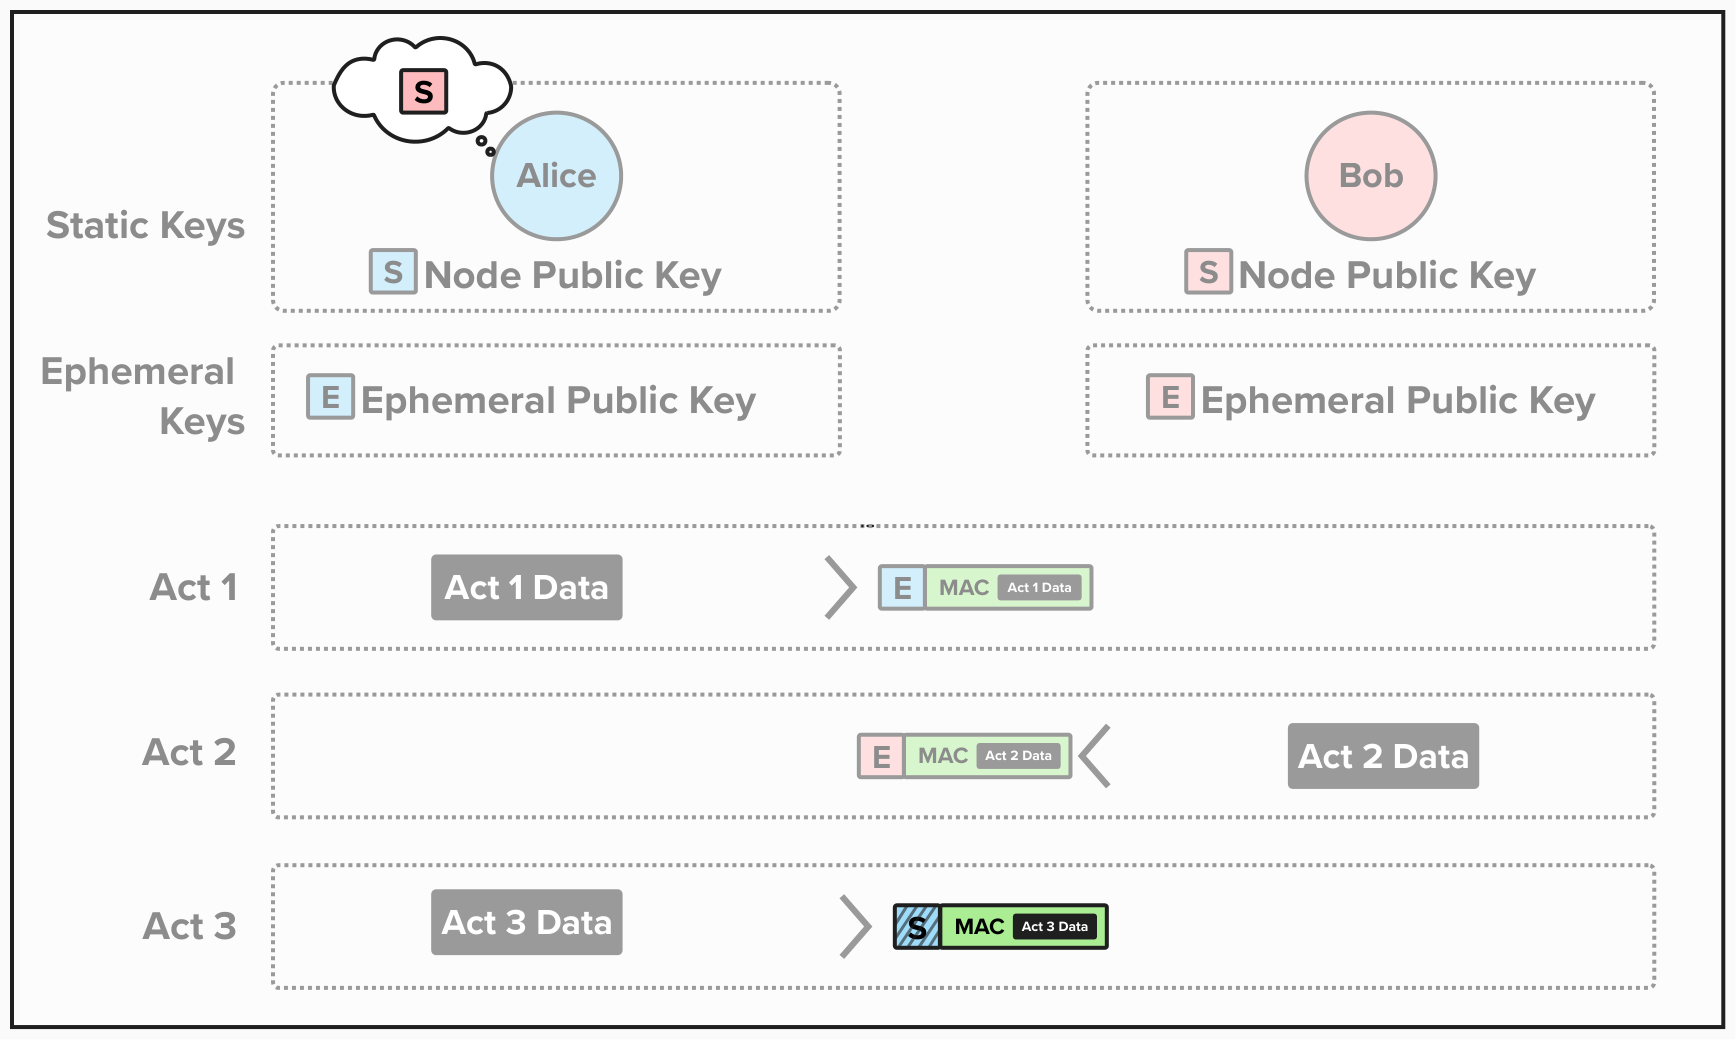
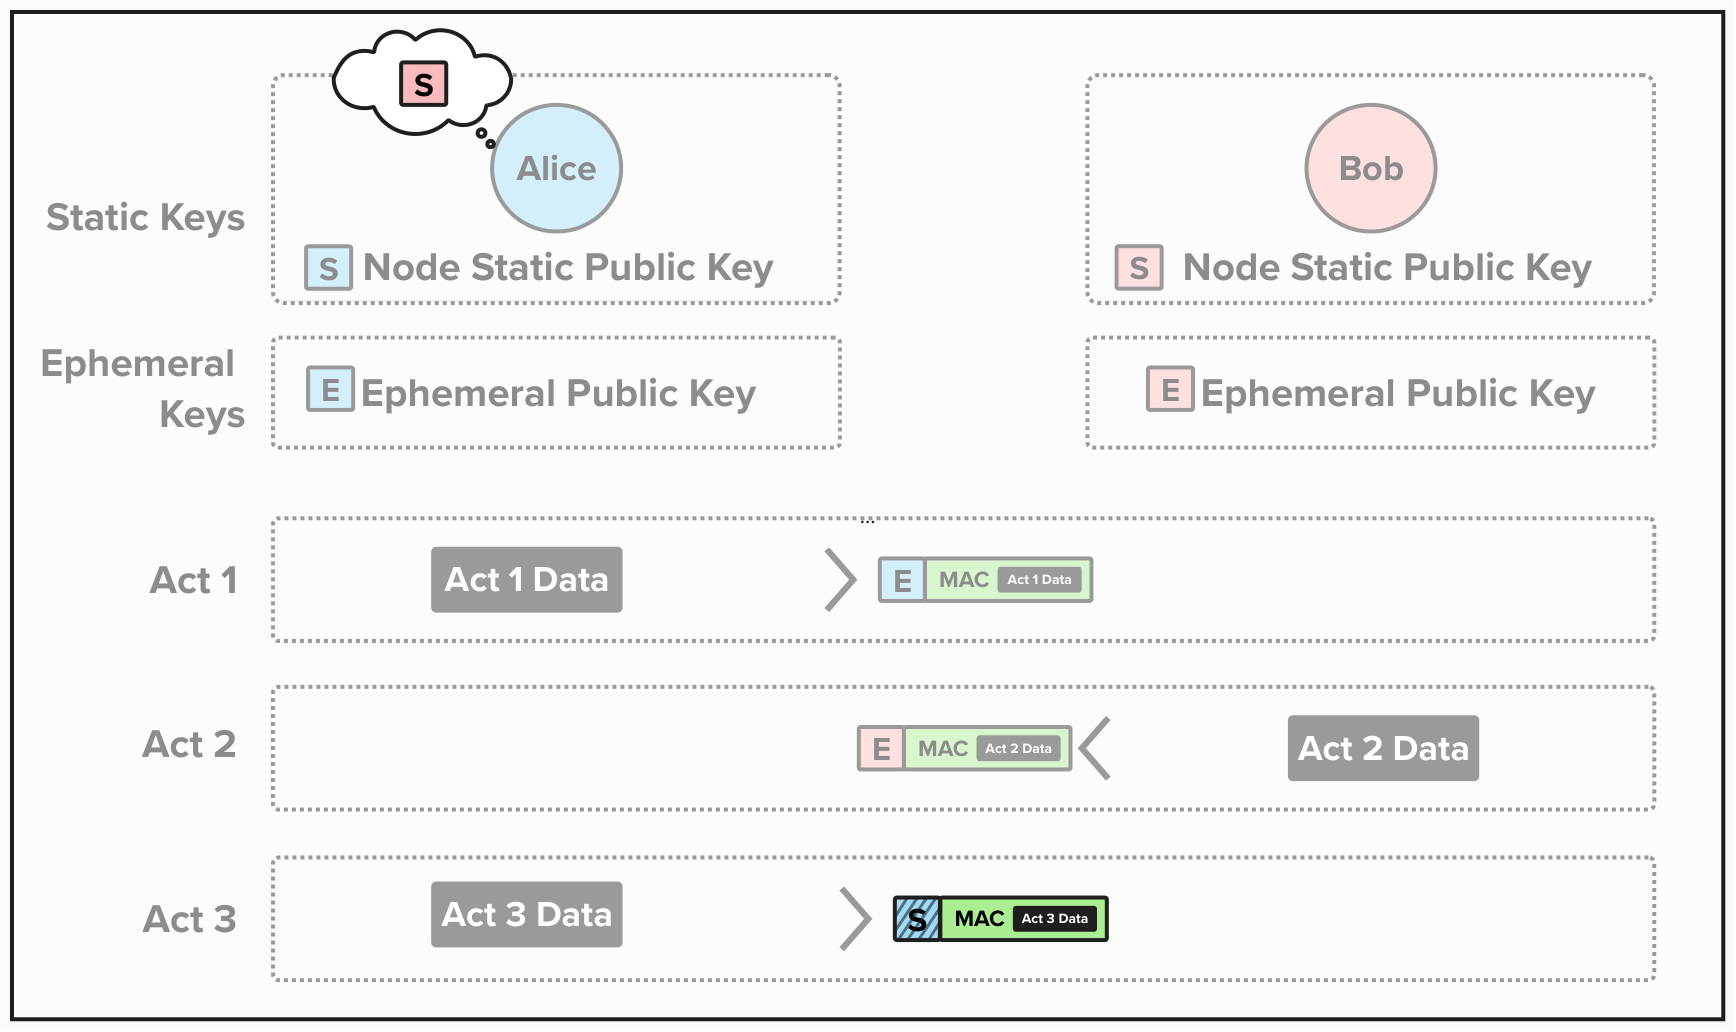
add Alice Noise Act 1

diff --git a/tutorial/1.7-noise-act-1.md b/tutorial/1.7-noise-act-1.md
@@ -1,0 +1,84 @@
+# Noise Protocol: Act 1
+
+Now that Alice has her pre-handshake state, she is ready to connect to Bob! In the "real world", Bob will compute his pre-handshake state when receiving the inbound connection from Alice.
+
+The first act of the Noise handshake protocol is Alice answering an implicit *challenge* from Bob: **prove you know Bob's public key**. We refer to it as a "challenge" because it follows the popular cryptographic **challenge-response pattern**, whereby one party satisfies a challenge, proving they know something, and then the other party responds.
+
+In this case, Act 1 is about Alice proving she knows who Bob is without actually sending his public key across the wire. To do this, she will mix Bob's public key into her handshake hash, which is then used in the Message Authentication Code (MAC), enabling Bob to verify the challenge privately. Let's see how it's done!
+
+## Act 1: Alice's Point-of-View
+
+<p align="left" style="width: 50%; max-width: 300px;">
+  <img src="./tutorial_images/noise_act1_alice.png" alt="noise_act1_alice" width="100%" height="auto">
+</p>
+
+### Step 1: Alice Generates Ephemeral Key Pair
+Alice's first step is to create an **Ephemeral Public and Private Key Pair**. At this point, you may be wondering: "Why does Alice need an ephemeral key pair? She has her own public and private keys!" That would be a fantastic question, and we'll answer it in Step 3!
+
+### Step 2: Alice Mixes Ephemeral Public Key into Handshake Hash
+Next, Alice will mix the **Ephemeral Public Key** into the **Handshake Hash**. Remember, this was initialized in the Handshake Setup stage, and it will serve as a shared session state, allowing both Alice and Bob to independently verify they are in sync as they move through each act in the handshake.
+
+### Step 3: Alice Computes ECDH Shared Secret
+Here's where the magic begins to happen! Alice will create an Elliptic Curve Diffie Hellman (ECDH) shared secret using *her* **Ephemeral Private Key** and *Bob's* **Static Public Key**. If you'd like a brief review of the ECDH opperation, head back to the Cryptographic Primitives section!
+
+#### Question: Why does Alice use her Ephemeral Public Key and not her Static Public Key?
+> HINT: This will become more clear after reading through Step 7! If you'd like, come back to this question after reading all of Alice's steps for Act 1.
+
+<details>
+  <summary>Answer</summary>
+
+Remember, Alice's Static Public Key is her Lightning node identity. If she sent it in plaintext in Act 1, any eavesdropper monitoring the network would immediately know who is connecting to Bob. However, Alice must send Bob *some* public key so that he can compute a shared secret - one of the main goals of the Noise Handshake.
+
+By using an Ephemeral Public Key instead, Alice can send a public key that enables ECDH while keeping her true identity hidden. This is where the `XK` in Lightning's Noise handshake pattern comes in! The `X` means Alice, the initiator, transmits her identity in encrypted form so it remains hidden from eavesdroppers. As we'll see later, once the shared secret is established, Alice will be able to safely send her Static Public Key encrypted so that others cannot read it.
+
+</details>
+
+### Step 4: Alice Derives Temporary Encryption Key
+Once Alice has the ECDH shared secret, `es`, she will input the shared secret and the **Chaining Key** (from the Handshake Setup) into the Hash-based Key Derivation Function, deriving the following two keys:
+- **Chaining Key** (`ck`): The Chaining Key is, as the name suggests, will be a *chain* of ECDH secrets that are derived during the handshake phase. Alice and Bob will use the `ck` to derive the cnryption keys for their Lightning messages. 
+- **Temporary Key 1** (`temp_k1`): This will be our single-use key that we can use to create an Message Authentication Code for our message before we send it to Bob. If you remember from the Cryptographic Primitives section, we'll use ChaCha20-Poly1305 to both encrypt and authenticate our message to Bob so that he can validate it has not been altered during transit.
+
+
+### Step 5: Alice Creates an Authentication MAC
+Okay, this is an important step! Before digging in, let's recap what Alice has done:
+1. She created an Ephemeral Public and Private Key.
+2. She mixed the Ephemeral Public Key into the Handshake Hash to update the session state.
+3. She used the Ephemeral Public Key to create an ECDH shared secret with Bob's Static Public Key, which she knew *before* connecting to Bob.
+4. She derived a new Temporary Key and updated the Chaining Key.
+
+Remember, the goal of Act 1 is to prove to Bob that she knows his public key without revealing her identity in plain text. To do this, she just needs to send the shared secret to Bob, but she will need to make sure Bob can authenticate the message, trusting that it was not tampered with during transit. Luckily, we have just the function to do that: ChaCha20-Poly1305!
+
+In Step 5, Alice will use ChaCha20-Poly1305 to authenticate and encrypt her message. The following inputs are passed into the algorithm:
+
+- **Plaintext**: There is not plaintext to encrypt, so this is left blank for now with a zero-length empty string.
+- **Associated Data**: The associated data is the handshake hash. This is not encrypted, but the MAC will cover it, allowing Bob to verify it has not been altered during transit.  
+- **Key**: Alice will use the one-time key, `temp_k1` generated in Step 4.
+- **Nonce**: For Act 1, the nonce is set to `0`.
+
+The result of this function is the message authentication code, `c`.
+
+#### Question: Why is the plaintext field blank? Should Alice be encrypting something?
+<details>
+  <summary>Answer</summary>
+
+At first, it may be confusing why Alice is not encrypting anything. Isn't the whole point of cryptography to encrypt things? Well, remember Alice's goals for Act 1 are to:
+1) Prove to Bob that she knows his public key
+2) Communicate this information in a way that Bob can *authenticate* and *verify* Alice's connection
+
+Since `temp_k1` was derived from the ECDH shared secret (which used Bob's static public key), the MAC will only verify correctly if Alice computed the ECDH with Bob's correct public key. When Bob receives this MAC, he will compute his own ECDH using his private key and Alice's ephemeral public key. If they both used the correct keys, they'll derive the same `temp_k1`, and the MAC will verify successfully.
+
+Therefore, Alice doesn't need to encrypt any data - she just needs Bob to validate that the MAC she's sending truly came from her and uses the correct key material. This is exactly what ChaCha20-Poly1305 does! When Alice creates the MAC, she adds the Handshake Hash as Associated Data, and sends the MAC to Bob for him to verify. We'll see how Bob does this verification in just a moment when we review Bob's steps for Act 1.
+
+</details>
+
+
+### Step 6: Alice Mixes Ciphertext (MAC) Into Hash
+Next, Alice will mix the **ciphertext** (the MAC `c` from Step 5) into the **Handshake Hash**.
+
+### Step 7: Alice Sends 50 bytes To Bob
+Finally, Alice will send Bob a 50-byte message with the following structure:
+- **Byte 1**: The first byte will be the version. As of now, the only valid version is `0`. If the version is anything other than this, Bob will reject the connection.
+- **Bytes 2-34**: The next 33 bytes will be Alice's Ephemeral Public Key. This is not encrypted, as Bob will need to use this to calculate the ECDH shared secret. Since Alice's Ephemeral Public Key is not linked to her Lightning node's identity, transmiting this in plain text does not leak any personal data.
+- **Bytes 35-50**: The last 16 bytes are the message authentication code produced by the ChaCha20-Poly1305 encryption algorithm.
+
+
